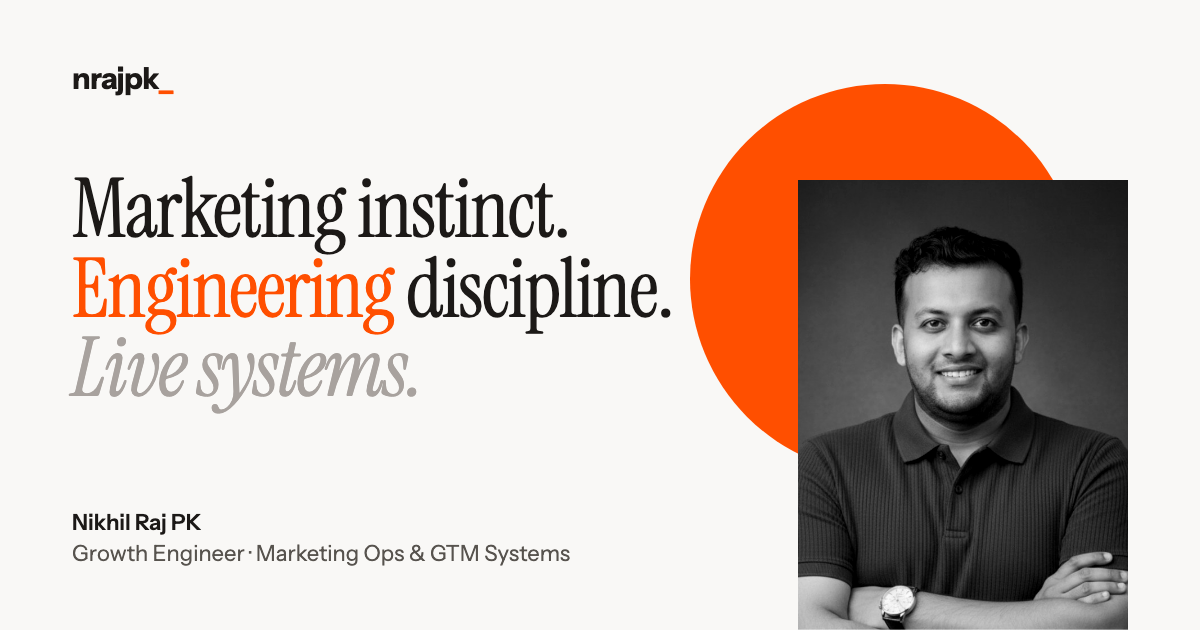
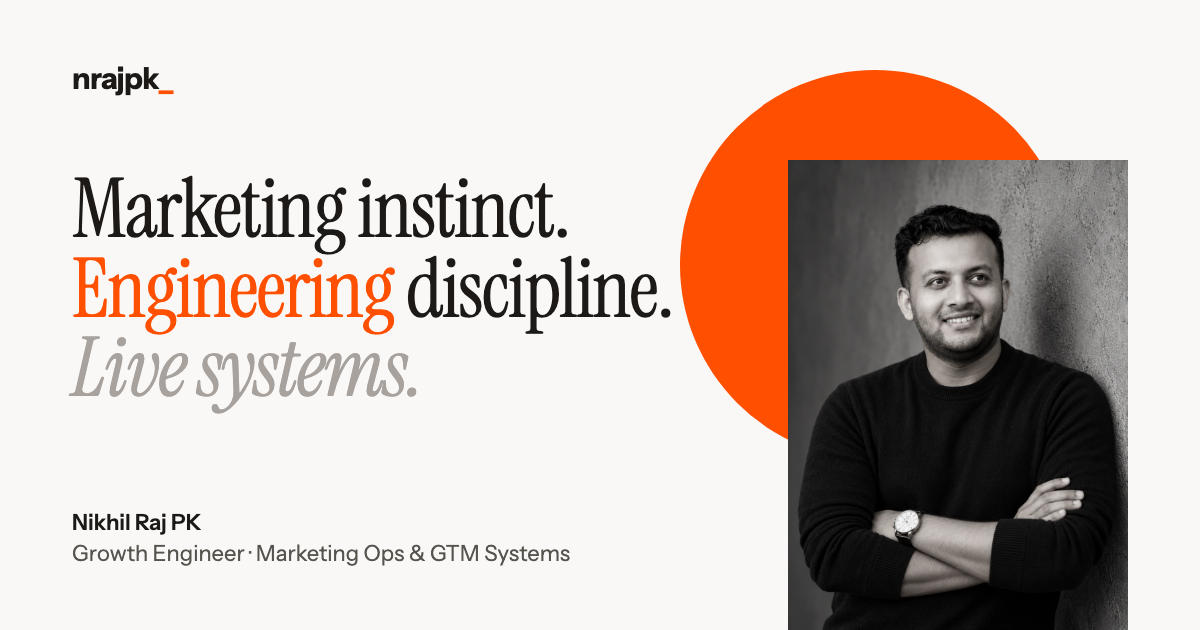
Add five new portraits across Home, About and Interface
- Home hero: studio portrait that cross-fades to a colour one on hover;
  a desk photo above Who am I.
- About: new lead portrait and a four-photo contact sheet.
- Interface demos and the social card use the new portraits.
- Photographs follow the page skin.

diff --git a/src/components/HeroStage.jsx b/src/components/HeroStage.jsx
@@ -183,15 +183,24 @@ export default function HeroStage() {
               initial={reduce ? false : { clipPath: "inset(100% 0 0 0)" }}
               animate={{ clipPath: "inset(0% 0 0 0)" }}
               transition={{ delay: 0.45, duration: 1.3, ease }}
-              className="group h-full w-full overflow-hidden bg-stone-200"
+              className="group relative h-full w-full overflow-hidden bg-stone-200"
             >
+              {/* Two sides: the studio portrait, and the colour one underneath it on hover */}
               <img
-                src="/portrait.webp"
-                alt="Nikhil Raj PK"
-                width="800"
-                height="800"
+                src="/photos/portrait-bw.webp"
+                alt="Nikhil Raj PK, arms crossed, leaning against a textured wall"
+                width="1122"
+                height="1402"
                 fetchPriority="high"
-                className="h-full w-full object-cover grayscale contrast-[1.08] group-hover:grayscale-0 scale-105 group-hover:scale-100 transition-all duration-1000 ease-out"
+                className="absolute inset-0 h-full w-full object-cover object-[50%_18%] scale-105 group-hover:scale-100 transition-transform duration-1000 ease-out"
+              />
+              <img
+                src="/photos/portrait-steps.webp"
+                alt=""
+                width="1086"
+                height="1448"
+                loading="lazy"
+                className="absolute inset-0 h-full w-full object-cover object-[50%_12%] opacity-0 group-hover:opacity-100 transition-opacity duration-700 ease-out"
               />
             </motion.div>
             <p className="mt-3 text-xs text-stone-500 leading-snug">

diff --git a/src/components/InterfaceDemos.jsx b/src/components/InterfaceDemos.jsx
@@ -58,7 +58,7 @@ export const FormatReframe = () => {
           <motion.img
             layout
             transition={spring}
-            src="/portrait.webp"
+            src="/photos/portrait-bw.webp"
             alt=""
             className="absolute object-cover grayscale contrast-[1.08]"
             style={
@@ -117,7 +117,7 @@ export const OpticalInspectionLens = () => {
       onPointerEnter={() => setActive(true)}
       onPointerLeave={() => setActive(false)}
     >
-      <img src="/portrait.webp" alt="" className="absolute inset-0 h-full w-full object-cover object-[50%_22%] grayscale brightness-75 opacity-50" />
+      <img src="/photos/sofa-black.webp" alt="" className="absolute inset-0 h-full w-full object-cover object-[66%_30%] grayscale brightness-75 opacity-50" />
 
       <motion.div
         className="absolute inset-0 pointer-events-none"
@@ -128,7 +128,7 @@ export const OpticalInspectionLens = () => {
         }}
         transition={{ type: "spring", bounce: 0, duration: 0.2 }}
       >
-        <img src="/portrait.webp" alt="" className="absolute inset-0 h-full w-full object-cover object-[50%_22%] scale-[1.12]" />
+        <img src="/photos/sofa-black.webp" alt="" className="absolute inset-0 h-full w-full object-cover object-[66%_30%] scale-[1.12]" />
         <div
           className="absolute border-2 border-zapier rounded-full flex items-center justify-center"
           style={{ left: `${pos.x}%`, top: `${pos.y}%`, width: "200px", height: "200px", transform: "translate(-50%, -50%)" }}

diff --git a/src/styles/global.css b/src/styles/global.css
@@ -211,6 +211,11 @@ html.js [data-reveal="wipe"].in {
   clip-path: inset(-0.25em -0.25em -0.25em -0.25em);
 }
 
+/* Photographs follow the page skin: natural on Paper, deeper on Ink,
+   a blue duotone on Blueprint. */
+html[data-skin="ink"] .photo { filter: contrast(1.08) brightness(0.94); }
+html[data-skin="blueprint"] .photo { filter: grayscale(1) sepia(1) hue-rotate(178deg) saturate(1.5) brightness(0.92); }
+
 /* 6. PROJECT COVERS — diagram animations */
 .cover { color: var(--color-stone-400); }
 .cover text { font-family: var(--font-mono); font-size: 7.5px; letter-spacing: 0.14em; fill: var(--color-stone-500); text-transform: uppercase; }
